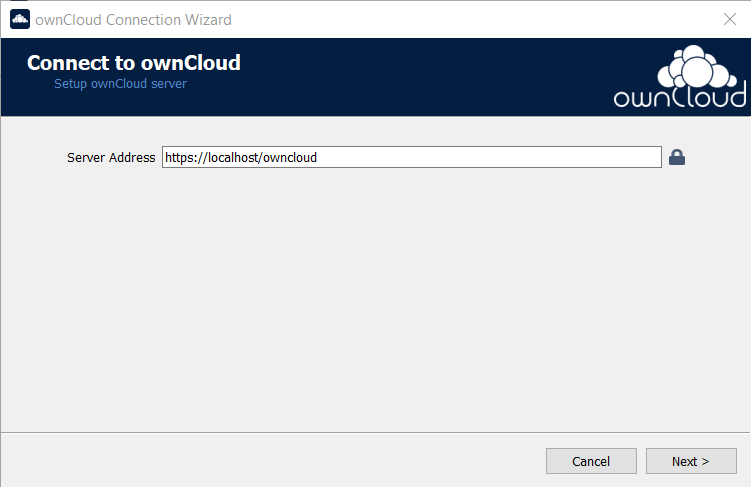
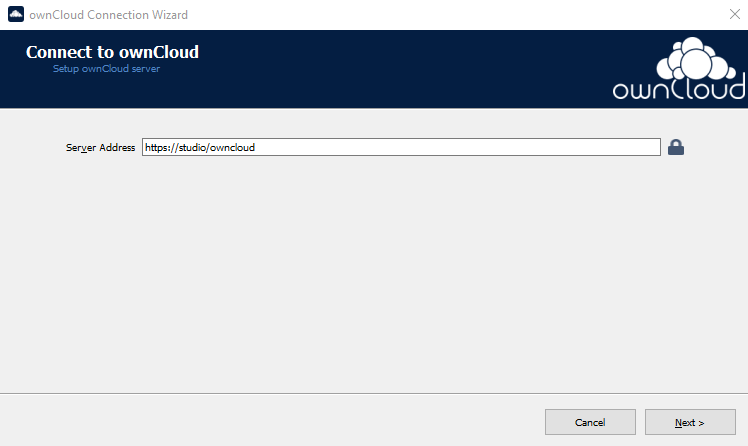
edit desktop client

Changed region(s): [[0.0, 0.0, 1.0, 0.2623], [0.0, 0.8744, 1.0, 0.991], [0.0922, 0.2915, 0.9225, 0.3498]]

diff --git a/pages/mydoc/my_doc_Desktop_Client.md b/pages/mydoc/my_doc_Desktop_Client.md
@@ -1,0 +1,21 @@
+---
+title: Connect to your ownCloud server using Desktop Client
+permalink: mydoc_desktop_client.html
+keywords: desktop, mobile, client
+sidebar: mydoc_sidebar
+folder: mydoc
+---
+
+Desktop Client is available for Windows, Mac OS X, and various Linux distributions. You can download the latest version of the ownCloud Desktop Synchronization Client from the [ownCloud download page](https://owncloud.com/download-server/#desktop-clients).
+
+**Procedure**
+
+1. In the **Server Address** box, enter the URL of your ownCloud server, and then click **Next**.
+
+    {% include image.html file="setup-5.png" alt="Jekyll"  %}
+
+2. Enter your **Username** and **Password** and click **Next**
+
+    {% include image.html file="setup-6.png" alt="Jekyll"  %}
+
+3. 

diff --git a/pages/mydoc/mydoc_Managing_Trusted_Domains.md b/pages/mydoc/mydoc_Managing_Trusted_Domains.md
@@ -15,7 +15,7 @@ All URLs which access your ownCloud server must be listed in your `config.php` f
     ```
     nano /var/www/owncloud/config/config.php
     ```
-2. Under trusted domains, enter users URL.
+2. In `config.php` file, under trusted domains, enter URLs (one URL by line).
     ```
     'trusted_domains' => [
     0 => 'localhost',
